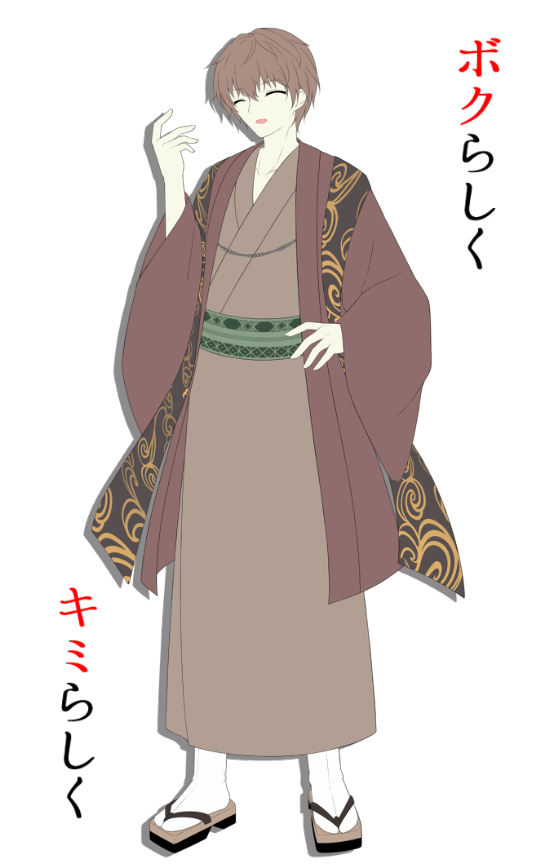
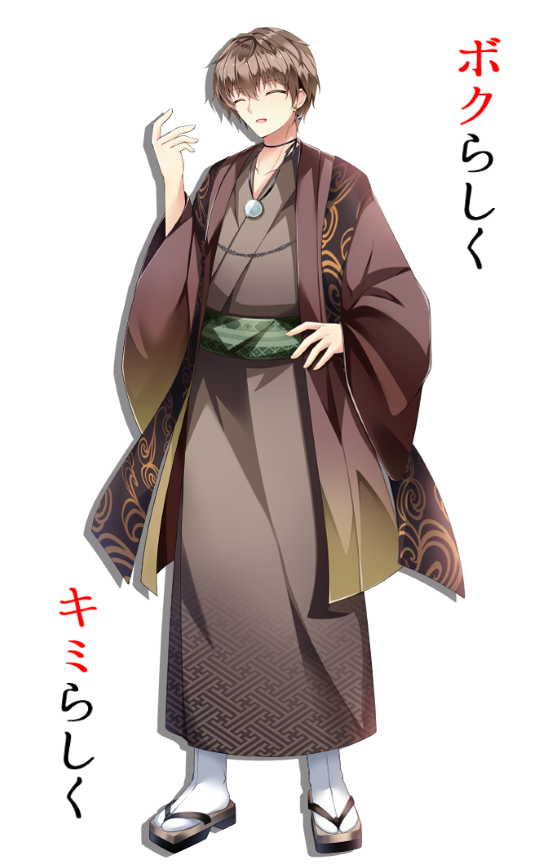
画像追加

Changed region(s): [[0.1778, 0.0312, 0.8593, 1.0], [0.8593, 0.0312, 0.9185, 0.2812], [0.1185, 0.6875, 0.1778, 0.9375]]

diff --git a/pages/mayukara/graphics/index.jsx b/pages/mayukara/graphics/index.jsx
@@ -29,8 +29,11 @@ const data = [
       "https://images.microcms-assets.io/assets/5309d67b60eb4f779993a5bde21d922a/eadb3530556b4f0097e96e937747e9a8/sample03b.png",
   },
   {
-    title: "Noimg",
-    path: noimg,
+    modal_index: "3",
+    title: "cg_4",
+    path: "https://images.microcms-assets.io/assets/5309d67b60eb4f779993a5bde21d922a/8d177000b33044e1a8d12eed8a2864de/sample04a.png",
+    path2:
+      "https://images.microcms-assets.io/assets/5309d67b60eb4f779993a5bde21d922a/139a38353bf344ddb2fa6b6020f3bcff/sample04b.png",
   },
   {
     title: "Noimg",
